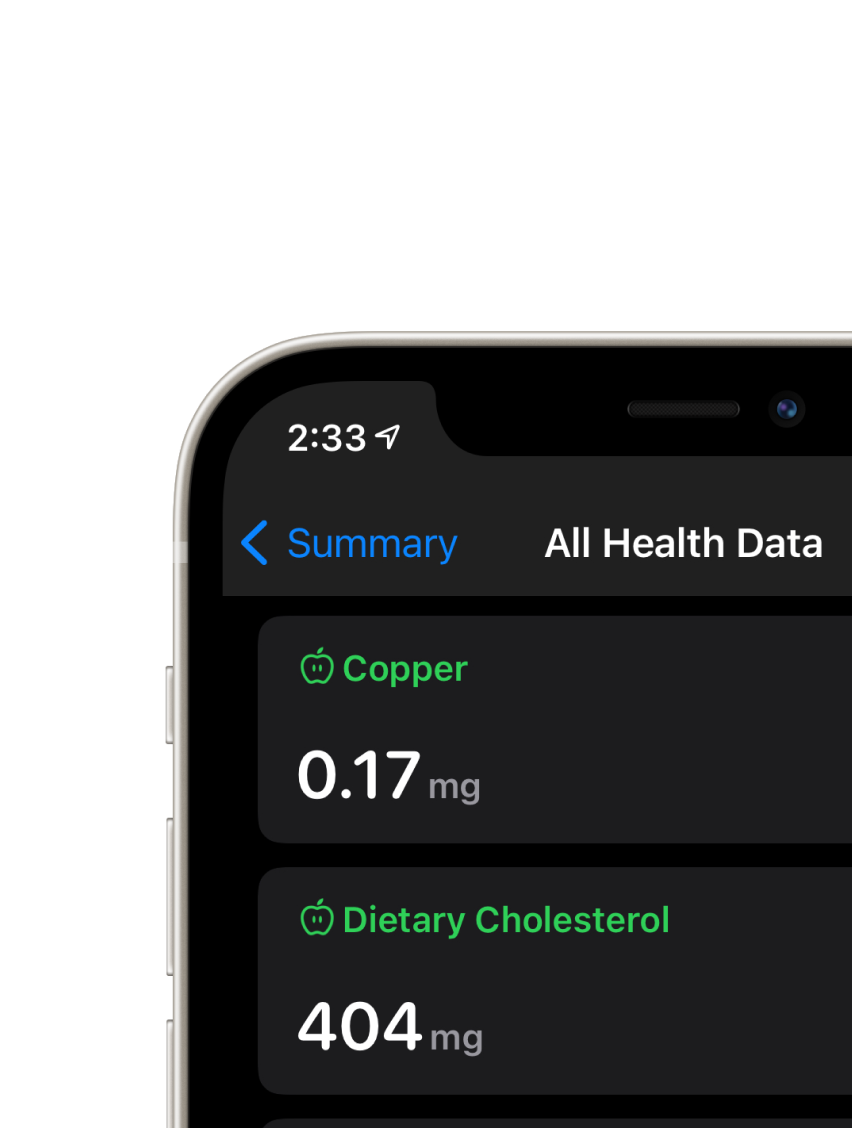
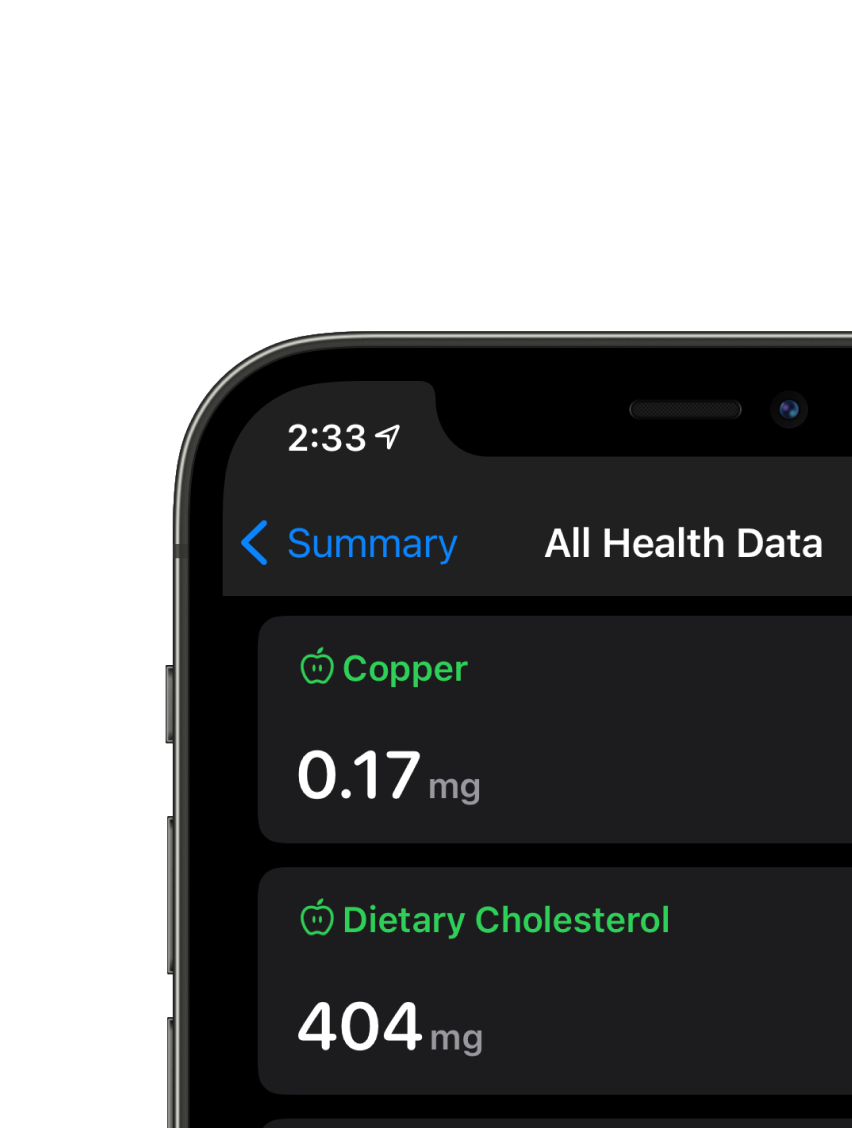
Cleanup

Changed region(s): [[0.1831, 0.2793, 1.0, 1.0], [0.9155, 0.3413, 0.946, 0.3723]]

diff --git a/index.html b/index.html
@@ -48,7 +48,7 @@
           <li><a class="jump-link" data-attr-id="faq" title="Frequently asked questions" href="#">FAQ</a></li>
         </ul>
 
-        <a class="button download-link" href="https://apps.apple.com/app/id1562577085" title="Download on the App Store">Download the app</a>
+        <a class="button download-link" href="https://apps.apple.com/app/id1562577085" title="Download on the App Store">Get the app</a>
       </div>
     </nav>
 
@@ -63,7 +63,7 @@
         <span class="heading-label">Meet Fuel</span>
         <h1>Modern calorie &amp;<br/>nutrient tracking</h1>
         <p>A food log that rewards consistency and <br/>uses data to create long-lasting change.</p>
-        <a class="button download-link" href="https://apps.apple.com/app/id1562577085" title="Download on the App Store">Download the app</a>
+        <a class="button mobile download-link" href="https://apps.apple.com/app/id1562577085" title="Download on the App Store">Get the app</a>
       </div>
 
       <div class="scroll-container">
@@ -178,14 +178,14 @@
         <div class="right-content">
           <div class="iphone-container">
             <div class="iphone">
-              <img class="lazy-load device-bezel" src="images/placeholder.png" data-src="images/iphone_frame.png" data-src-retina="../images/iphone_frame@2x.png">
+              <img class="lazy-load device-bezel" src="images/placeholder.png" data-src="images/iphone_frame_dark.png" data-src-retina="../images/iphone_frame_dark@2x.png">
               <img class="lazy-load device-media preset-01 dashboard-preset active" src="images/placeholder.png" data-src="images/dashboard_personalization_01.jpg" data-src-retina="../images/dashboard_personalization_01@2x.jpg">
               <img class="lazy-load device-media preset-02 dashboard-preset" src="images/placeholder.png" data-src="images/dashboard_personalization_02.jpg" data-src-retina="../images/dashboard_personalization_02@2x.jpg">
               <img class="lazy-load device-media preset-03 dashboard-preset" src="images/placeholder.png" data-src="images/dashboard_personalization_03.jpg" data-src-retina="../images/dashboard_personalization_03@2x.jpg">
               <img class="lazy-load device-media preset-04 dashboard-preset" src="images/placeholder.png" data-src="images/dashboard_personalization_04.jpg" data-src-retina="../images/dashboard_personalization_04@2x.jpg">
 
               <noscript>
-                <img class="device-bezel" src="images/iphone_frame@2x.png">
+                <img class="device-bezel" src="images/iphone_frame_dark@2x.png">
                 <video class="device-media preset-01 dashboard-preset active">
                   <source src="../images/dashboard_personalization_01.gif"
                 </vidoe>
@@ -463,7 +463,6 @@
         <div class="pricing-basic">
           <h3>Basic</h3>
           <span class="price">$0</span>
-          <span class="price-detail">Limited</span>
 
           <ul>
             <li>Basic calorie and nutrient tracking</li>
@@ -472,7 +471,7 @@
             <li>No backup or sync</li>
           </ul>
         </div><div class="pricing-pro">
-          <h3>Pro</h3>
+          <h3>Subscription</h3>
           <span class="price">$3.49</span>
           <span class="price-detail">Per month or $34.99 annually</span>
           <ul>

diff --git a/css/screen.css b/css/screen.css
@@ -275,6 +275,15 @@ button {
     color: white;
     border-color: #101010;
     text-decoration: none; }
+  a.button.mobile,
+  button.mobile {
+    background: #101010;
+    color: white;
+    border-color: #101010;
+    text-decoration: none; }
+    a.button.mobile:hover,
+    button.mobile:hover {
+      background-color: #454545; }
 
 /**
  * No Script States
@@ -1079,9 +1088,13 @@ li {
   margin: 5em 0 0;
   background: #EDEDED;
   vertical-align: bottom; }
+  .pricing .pricing-basic li {
+    color: #050505; }
 .pricing .pricing-pro {
   background: #0047FF;
   color: white; }
+  .pricing .pricing-pro li {
+    color: white; }
 .pricing .pricing-trial {
   flex: 1;
   vertical-align: top; }
@@ -1095,7 +1108,8 @@ li {
   .pricing-trial .button {
     margin-top: 4em;
     display: block;
-    text-align: center; }
+    text-align: center;
+    max-width: 200px; }
   .pricing-trial.display-flex {
     padding: 40px;
     padding-bottom: 0; }
@@ -1107,7 +1121,7 @@ li {
 .frequently-asked-questions .right-content {
   flex: 1; }
 .frequently-asked-questions a {
-  max-width: 300px;
+  max-width: 350px;
   line-height: 1.3; }
 .frequently-asked-questions h2 {
   margin-bottom: 2em; }
@@ -1273,7 +1287,7 @@ input[type="submit"] {
  *********************************************
  */
 .contact h1 {
-  margin-bottom: 1em; }
+  margin-bottom: 0.5em; }
 .contact label {
   display: block;
   margin-bottom: 1em; }
@@ -1758,14 +1772,10 @@ input[type="submit"] {
       background: #EDEDED;
       flex: 1;
       vertical-align: bottom; }
-      .pricing .pricing-basic li {
-        color: #050505; }
     .pricing .pricing-pro {
       width: 40%;
       background: #0047FF;
       color: white; }
-      .pricing .pricing-pro li {
-        color: white; }
     .pricing .pricing-trial {
       background: #DAE5FF;
       flex: 1;

diff --git a/css/screen.scss b/css/screen.scss
@@ -630,11 +630,19 @@ li {
     margin: 5em 0 0;
     background: #EDEDED;
     vertical-align: bottom;
+
+    li {
+      color: $textColorPrimary;
+    }
   }
 
   .pricing-pro {
     background: #0047FF;
     color: white;
+
+    li {
+      color: white;
+    }
   }
 
   .pricing-trial {
@@ -656,6 +664,7 @@ li {
     margin-top: 4em;
     display: block;
     text-align: center;
+    max-width: 200px;
   }
 
   &.display-flex {
@@ -678,7 +687,7 @@ li {
   }
 
   a {
-    max-width: 300px;
+    max-width: 350px;
     line-height: 1.3;
   }
 
@@ -910,7 +919,7 @@ input[type="submit"] {
  */
 .contact {
   h1 {
-    margin-bottom: 1em;
+    margin-bottom: 0.5em;
   }
 
   label {
@@ -1636,20 +1645,12 @@ input[type="submit"] {
       background: #EDEDED;
       flex: 1;
       vertical-align: bottom;
-
-      li {
-        color: $textColorPrimary;
-      }
     }
 
     .pricing-pro {
       width: 40%;
       background: #0047FF;
       color: white;
-
-      li {
-        color: white;
-      }
     }
 
     .pricing-trial {

diff --git a/privacy/index.html b/privacy/index.html
@@ -44,7 +44,7 @@
           <img class="logo" src="../images/logo.svg"/>
         </a>
 
-        <a class="button download-link" href="https://apps.apple.com/app/id1562577085" title="Download on the App Store">Download the app</a>
+        <a class="button download-link" href="https://apps.apple.com/app/id1562577085" title="Download on the App Store">Get the app</a>
       </div>
     </nav>
 
@@ -88,7 +88,7 @@
           <li>Anonymous session usage provided by RevenueCat</li>
         </ul>
 
-        <h2>Children’s Privacy</h2>
+        <h2>Children&rsquo;s Privacy</h2>
         <p>We do not aim any of our products or services directly at children under the age of 13, and we do not knowingly collect personal information about children under 13.</p>
 
         <h2>Disclosure of Personal Information to Third Parties</h2>

diff --git a/contact/index.html b/contact/index.html
@@ -44,7 +44,7 @@
           <img class="logo" src="../images/logo.svg"/>
         </a>
 
-        <a class="button download-link" href="https://apps.apple.com/app/id1562577085" title="Download on the App Store">Download the app</a>
+        <a class="button download-link" href="https://apps.apple.com/app/id1562577085" title="Download on the App Store">Get the app</a>
       </div>
     </nav>
 
@@ -63,7 +63,7 @@
           <input type="email" placeholder="your@email.com" name="email" required="true">
 
           <label for="body">Message</label>
-          <textarea name="body" rows="5" required="true" placeholder="How can we help?"></textarea>
+          <textarea name="body" rows="5" required="true" placeholder="How can I help?"></textarea>
 
           <input type="file" name="attachments" multiple="true" />
 

diff --git a/features/index.html b/features/index.html
@@ -44,7 +44,7 @@
           <img class="logo" src="../images/logo.svg"/>
         </a>
 
-        <a class="button download-link" href="https://apps.apple.com/app/id1562577085" title="Download on the App Store">Download the app</a>
+        <a class="button download-link" href="https://apps.apple.com/app/id1562577085" title="Download on the App Store">Get the app</a>
       </div>
     </nav>
 

diff --git a/terms/index.html b/terms/index.html
@@ -44,7 +44,7 @@
           <img class="logo" src="../images/logo.svg"/>
         </a>
 
-        <a class="button download-link" href="https://apps.apple.com/app/id1562577085" title="Download on the App Store">Download the app</a>
+        <a class="button download-link" href="https://apps.apple.com/app/id1562577085" title="Download on the App Store">Get the app</a>
       </div>
     </nav>
 

diff --git a/tips/index.html b/tips/index.html
@@ -44,7 +44,7 @@
           <img class="logo" src="../images/logo.svg"/>
         </a>
 
-        <a class="button download-link" href="https://apps.apple.com/app/id1562577085" title="Download on the App Store">Download the app</a>
+        <a class="button download-link" href="https://apps.apple.com/app/id1562577085" title="Download on the App Store">Get the app</a>
       </div>
     </nav>
 

diff --git a/contact/thank-you/index.html b/contact/thank-you/index.html
@@ -44,7 +44,7 @@
           <img class="logo" src="/images/logo.svg"/>
         </a>
 
-        <a class="button download-link" href="https://apps.apple.com/app/id1562577085" title="Download on the App Store">Download the app</a>
+        <a class="button download-link" href="https://apps.apple.com/app/id1562577085" title="Download on the App Store">Get the app</a>
       </div>
     </nav>
 

diff --git a/css/utilities.scss b/css/utilities.scss
@@ -72,6 +72,17 @@ button {
     border-color: $darkBackground;
     text-decoration: none;
   }
+
+  &.mobile {
+    background: $darkBackground;
+    color: white;
+    border-color: $darkBackground;
+    text-decoration: none;
+
+    &:hover {
+      background-color: #454545;
+    }
+  }
 }
 
 /**
